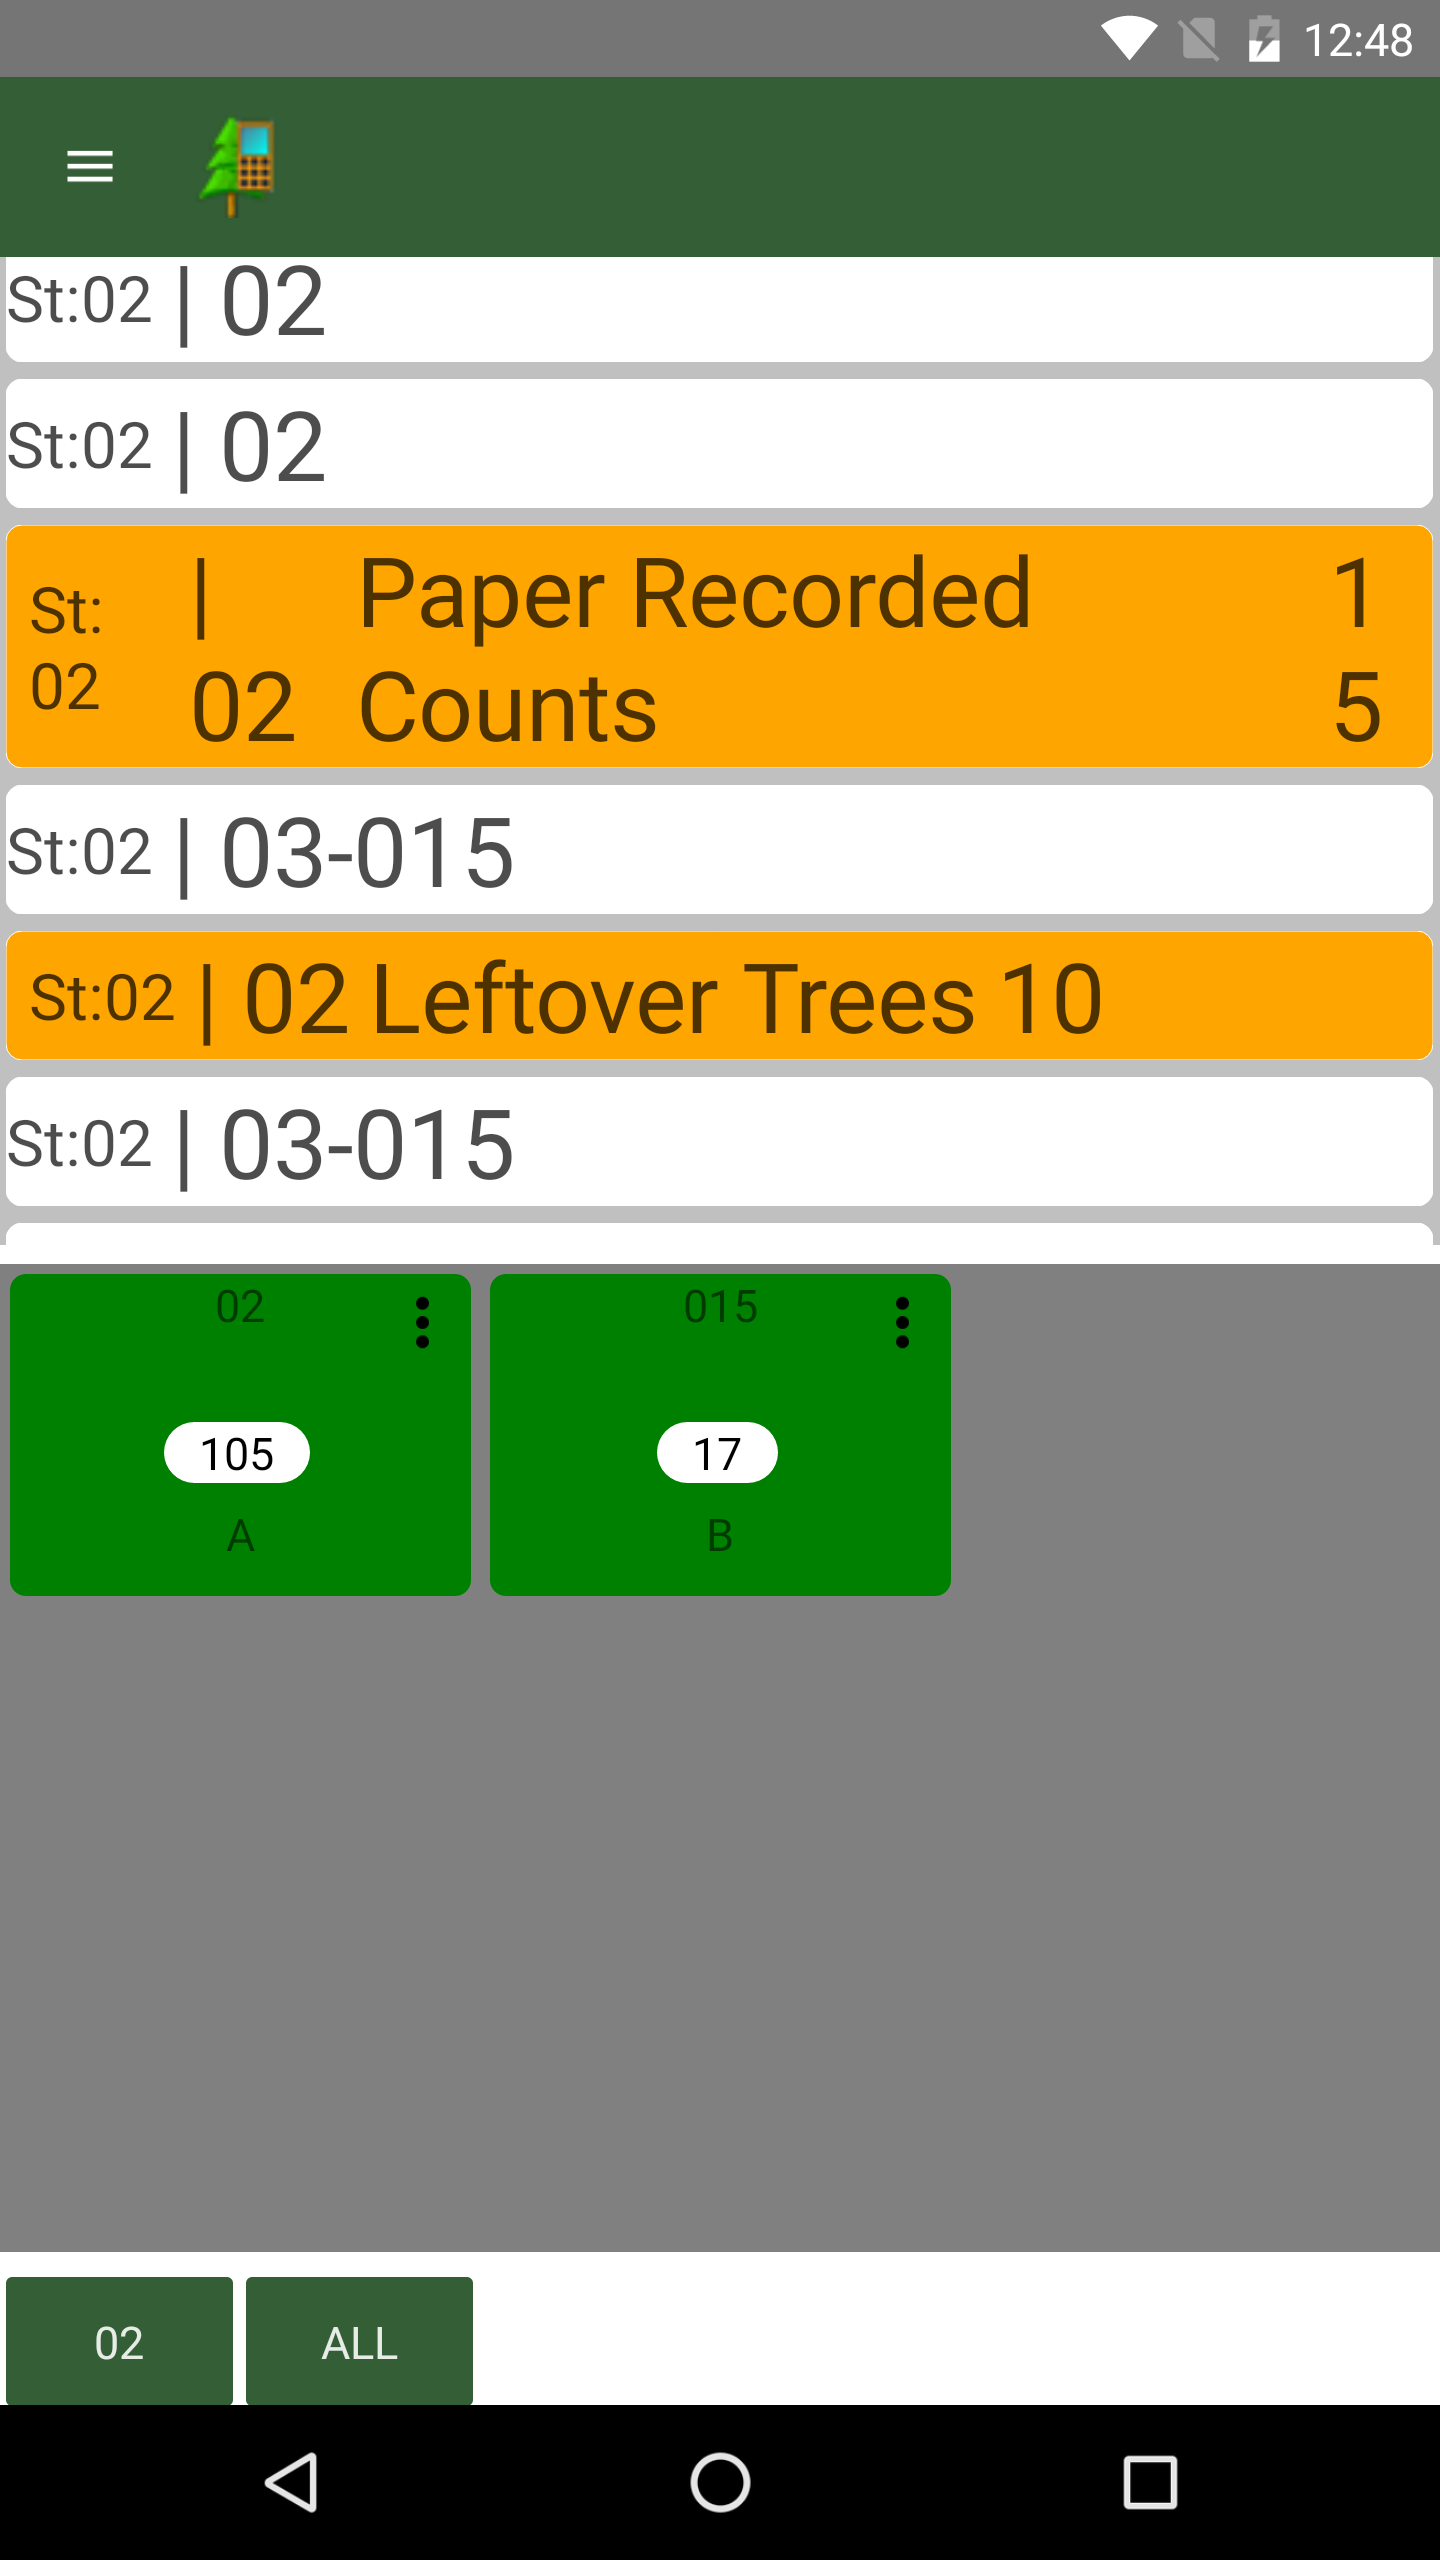
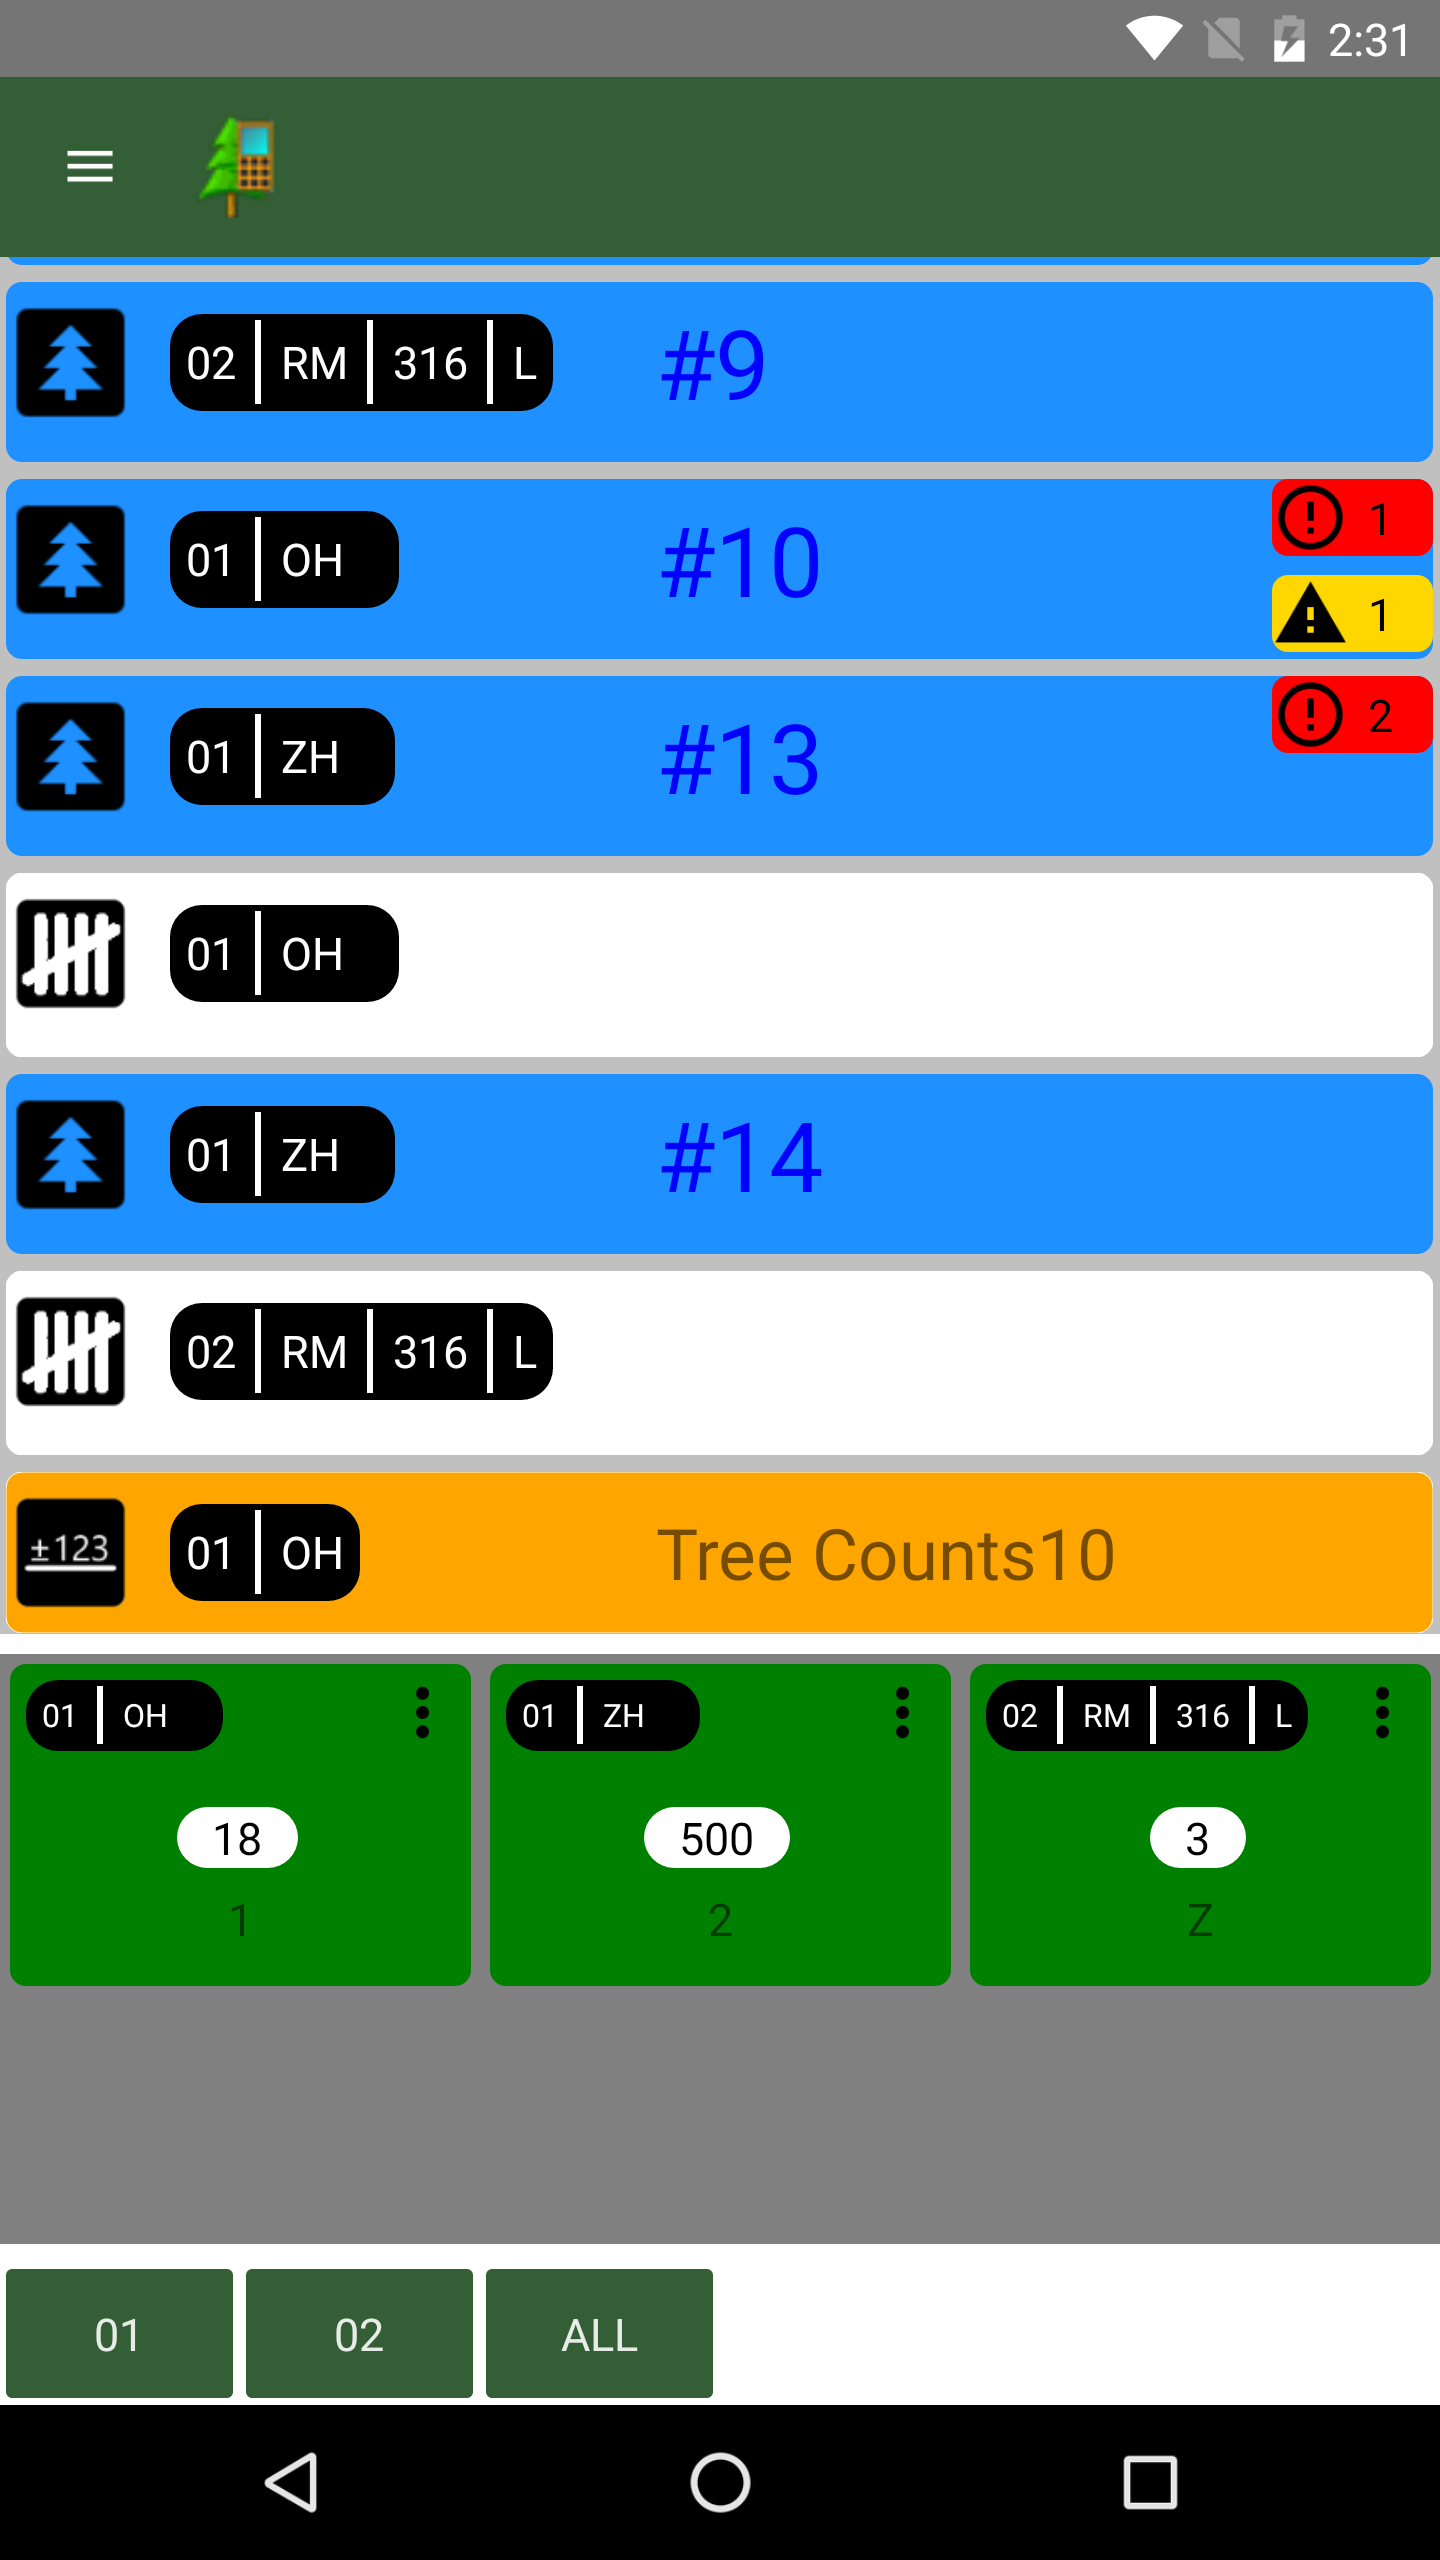
display error and warning counts in the tally history feed

diff --git a/source/FScruiser.Xamarin/ViewCells/TallyEntryTreeViewCell.xaml b/source/FScruiser.Xamarin/ViewCells/TallyEntryTreeViewCell.xaml
@@ -4,9 +4,22 @@
                                    x:Class="FScruiser.XF.ViewCells.TallyEntryTreeViewCell"
                                    xmlns:local="clr-namespace:FScruiser.XF.ViewCells"
                                    xmlns:local_commands="clr-namespace:FScruiser.XF.Commands"
-                                   xmlns:local_views="clr-namespace:FScruiser.XF.Views">
+                                   xmlns:local_views="clr-namespace:FScruiser.XF.Views"
+                                   xmlns:converters="clr-namespace:Backpack.XF.Converters;assembly=Backpack.XF.Converters">
+
+
     <ViewCell.View>
         <ContentView BackgroundColor="Silver">
+
+            <ContentView.Resources>
+                <converters:ComparisonConverter x:Key="greaterThanZeroConverter"
+                                                x:TypeArguments="x:Int32"
+                                                Default="True"
+                                                GreaterThan="True"
+                                                CompareToValue="0" />
+
+            </ContentView.Resources>
+
             <Frame BackgroundColor="{StaticResource accent}"
                    CornerRadius="5"
                    Margin="2,5,2,0"
@@ -19,13 +32,20 @@
                     </Grid.RowDefinitions>
 
                     <Grid.ColumnDefinitions>
+                        <ColumnDefinition Width="40" />
                         <ColumnDefinition Width="150" />
-                        <ColumnDefinition Width="Auto" />
                         <ColumnDefinition Width="*" />
+                        <ColumnDefinition Width="50" />
+                        <ColumnDefinition Width="50" />
                     </Grid.ColumnDefinitions>
 
+
+                    <Image Grid.Row="0"
+                           Grid.Column="0"
+                           Source="ic_pine_tree_box_black_24dp.png" />
+
                     <local_views:PopulationIndicatorView Grid.Row="0"
-                                                         Grid.Column="0"
+                                                         Grid.Column="1"
                                                          StratumCode="{Binding StratumCode}"
                                                          SampleGroupCode="{Binding SampleGroupCode}"
                                                          Species="{Binding Species}"
@@ -36,11 +56,6 @@
                                                          HorizontalOptions="Start"
                                                          FontSize="Small" />
 
-
-                    <Image Grid.Row="0"
-                           Grid.Column="1"
-                           Source="ic_pine_tree_box_black_36dp.png" />
-
                     <Label Grid.Row="0"
                            Grid.Column="2"
                            Text="{Binding TreeNumber, StringFormat='{}#{0}'}"
@@ -48,6 +63,38 @@
                            FontSize="30"
                            VerticalTextAlignment="Center"
                            HorizontalOptions="Start" />
+
+                    <StackLayout Grid.Row="0"
+                                 Grid.Column="4">
+
+                        <Frame Padding="0"
+                               CornerRadius="5"
+                               BackgroundColor="Red"
+                               VerticalOptions="Center"
+                               IsVisible="{Binding ErrorCount, Converter={StaticResource greaterThanZeroConverter}}">
+                            <StackLayout Orientation="Horizontal"
+                                         Padding="0">
+                                <Image Source="ic_error_outline_black_24dp.png" />
+                                <Label Text="{Binding ErrorCount}"
+                                       TextColor="Black"
+                                       VerticalTextAlignment="Center" />
+                            </StackLayout>
+                        </Frame>
+
+                        <Frame Padding="0"
+                               CornerRadius="5"
+                               BackgroundColor="Gold"
+                               VerticalOptions="Center"
+                               IsVisible="{Binding WarningCount, Converter={StaticResource greaterThanZeroConverter}}">
+                            <StackLayout Orientation="Horizontal"
+                                         Padding="0">
+                                <Image Source="ic_warning_black_24dp.png" />
+                                <Label Text="{Binding WarningCount}"
+                                       TextColor="Black"
+                                       VerticalTextAlignment="Center" />
+                            </StackLayout>
+                        </Frame>
+                    </StackLayout>
 
                     <!--<Label x:Name="CruiserInitialsLabel" 
                                Text="{Binding Tree.Initials}"
@@ -58,7 +105,7 @@
                     <Grid x:Name="_treeEditPanel"
                           Grid.Row="1"
                           Grid.Column="0"
-                          Grid.ColumnSpan="3"
+                          Grid.ColumnSpan="5"
                           IsVisible="False">
                         <!-- default to not visable, when view cell expands visability will be set to true -->
 

diff --git a/source/FScruiser.Xamarin/ViewCells/TallyEditViewCell.xaml b/source/FScruiser.Xamarin/ViewCells/TallyEditViewCell.xaml
@@ -18,38 +18,43 @@
                     </Grid.RowDefinitions>
 
                     <Grid.ColumnDefinitions>
+                        <ColumnDefinition Width="40" />
                         <ColumnDefinition Width="150" />
                         <ColumnDefinition Width="Auto" />
                         <ColumnDefinition Width="*" />
                     </Grid.ColumnDefinitions>
 
-                    <local_views:PopulationIndicatorView
-                        Grid.Row="0" Grid.Column="0"
-                        StratumCode="{Binding StratumCode}"
-                        SampleGroupCode="{Binding SampleGroupCode}"
-                        Species="{Binding Species}"
-                        LiveDead="{Binding LiveDead}"
-                        Margin="5"
-                        HeightRequest="30"
-                        VerticalOptions="Center"
-                        HorizontalOptions="Start"
-                        FontSize="Small" />
+                    <Image Grid.Row="0"
+                           Grid.Column="0"
+                           Source="ic_counts_box_black_24dp.png" />
 
-                    <Label 
-                        Grid.Row="0" Grid.Column="1"
-                        Text="{Binding TreeCount, StringFormat='{}Tree Counts{0}'}"
-                        FontSize="Large"
-                        VerticalTextAlignment="Center" />
-                    
-                    <Label 
-                        Grid.Row="0" Grid.Column="2"
-                        Text="{Binding Reason}"
-                        FontSize="Large"
-                        VerticalTextAlignment="Center" />
+                    <local_views:PopulationIndicatorView Grid.Row="0"
+                                                         Grid.Column="1"
+                                                         StratumCode="{Binding StratumCode}"
+                                                         SampleGroupCode="{Binding SampleGroupCode}"
+                                                         Species="{Binding Species}"
+                                                         LiveDead="{Binding LiveDead}"
+                                                         Margin="5"
+                                                         HeightRequest="30"
+                                                         VerticalOptions="Center"
+                                                         HorizontalOptions="Start"
+                                                         FontSize="Small" />
 
-                    
+                    <Label Grid.Row="0"
+                           Grid.Column="2"
+                           Text="{Binding TreeCount, StringFormat='{}Tree Counts{0}'}"
+                           FontSize="Large"
+                           VerticalTextAlignment="Center" />
+
+                    <Label Grid.Row="0"
+                           Grid.Column="3"
+                           Text="{Binding Reason}"
+                           FontSize="Large"
+                           VerticalTextAlignment="Center" />
+
+
                 </Grid>
-                
+
             </Frame>
         </ContentView>
     </ViewCell.View>

diff --git a/source/FScruiser.Xamarin/ViewCells/TallyEntryViewCell.xaml b/source/FScruiser.Xamarin/ViewCells/TallyEntryViewCell.xaml
@@ -17,12 +17,16 @@
                         <RowDefinition Height="*" />
                     </Grid.RowDefinitions>
                     <Grid.ColumnDefinitions>
-                        <ColumnDefinition Width="150" />
+                        <ColumnDefinition Width="40" />
                         <ColumnDefinition Width="*" />
                     </Grid.ColumnDefinitions>
 
+                    <Image Grid.Row="0"
+                           Grid.Column="0"
+                           Source="ic_tally_box_black_24dp.png" />
+                    
                     <local_views:PopulationIndicatorView Grid.Row="0"
-                                                         Grid.Column="0"
+                                                         Grid.Column="1"
                                                          StratumCode="{Binding StratumCode}"
                                                          SampleGroupCode="{Binding SampleGroupCode}"
                                                          Species="{Binding Species}"

diff --git a/source/FScruiser.Core/Services/CuttingUnitDatastore.cs b/source/FScruiser.Core/Services/CuttingUnitDatastore.cs
@@ -1606,7 +1606,9 @@ namespace FScruiser.Services
                     "Signature, " +
                     "tl.CreatedDate, " +
                     "t.TreeNumber, " +
-                    "tl.STM " +
+                    "tl.STM, " +
+                    "(SELECT count(*) FROM TreeError AS te WHERE tl.TreeID IS NOT NULL AND Level = 'E' AND te.TreeID = tl.TreeID AND Resolution IS NULL) AS ErrorCount, " +
+                    "(SELECT count(*) FROM TreeError AS te WHERE tl.TreeID IS NOT NULL AND Level = 'W' AND te.TreeID = tl.TreeID AND Resolution IS NULL) AS WarningCount " +
                 "FROM TallyLedger AS tl " +
                 "LEFT JOIN Tree_V3 AS t USING (TreeID) " +
                 "WHERE tl.CuttingUnitCode = @p1 " +

diff --git a/source/FScruiser.Core/Models/TallyEntry.cs b/source/FScruiser.Core/Models/TallyEntry.cs
@@ -34,6 +34,12 @@ namespace FScruiser.Models
         [Field("SampleGroupCode")]
         public string SampleGroupCode { get; set; }
 
+        [Field("ErrorCount")]
+        public int ErrorCount { get; set; }
+
+        [Field("WarningCount")]
+        public int WarningCount { get; set; }
+
         [Field("Species")]
         public string Species { get; set; }
 

diff --git a/source/FScruiser.Core.Test/Services/CuttingUnitDatastore_Test.cs b/source/FScruiser.Core.Test/Services/CuttingUnitDatastore_Test.cs
@@ -522,7 +522,7 @@ namespace FScruiser.Core.Test.Services
         #region tally entry
 
         [Fact]
-        public void GetTallyEntry()
+        public void GetTallyEntriesByUnitCode()
         {
             var unit = "u1";
             var stratum = "st1";
